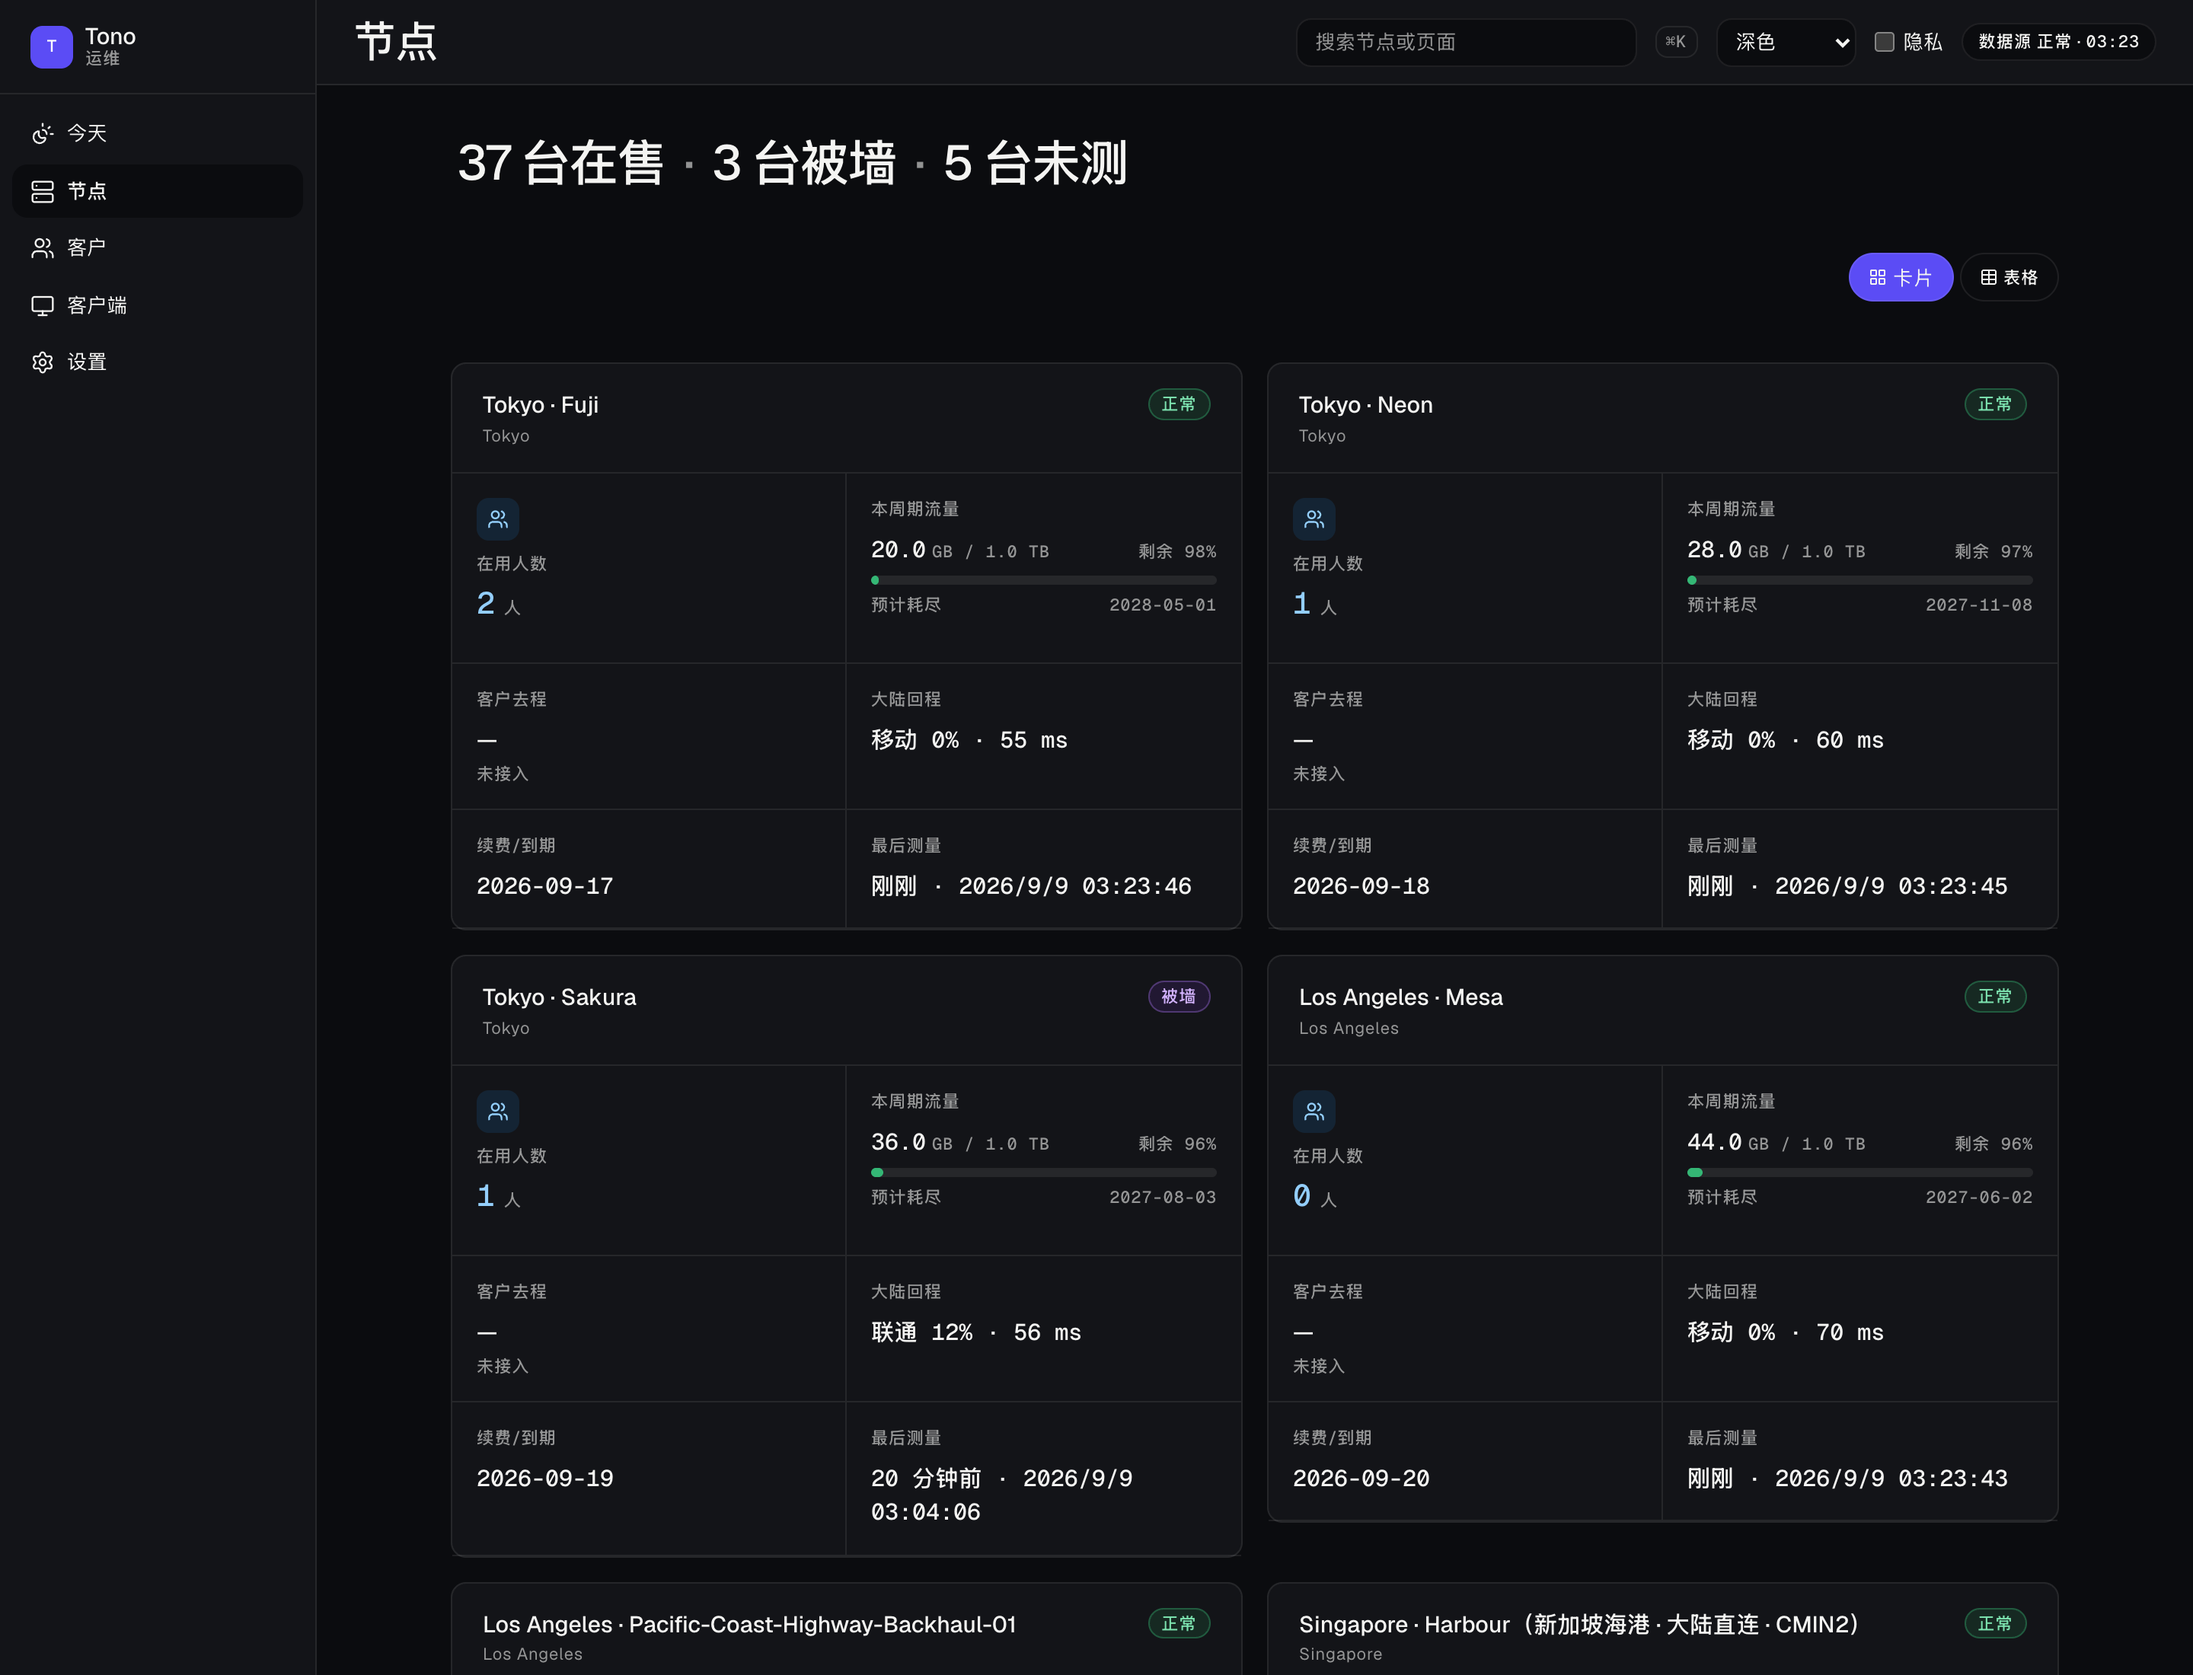
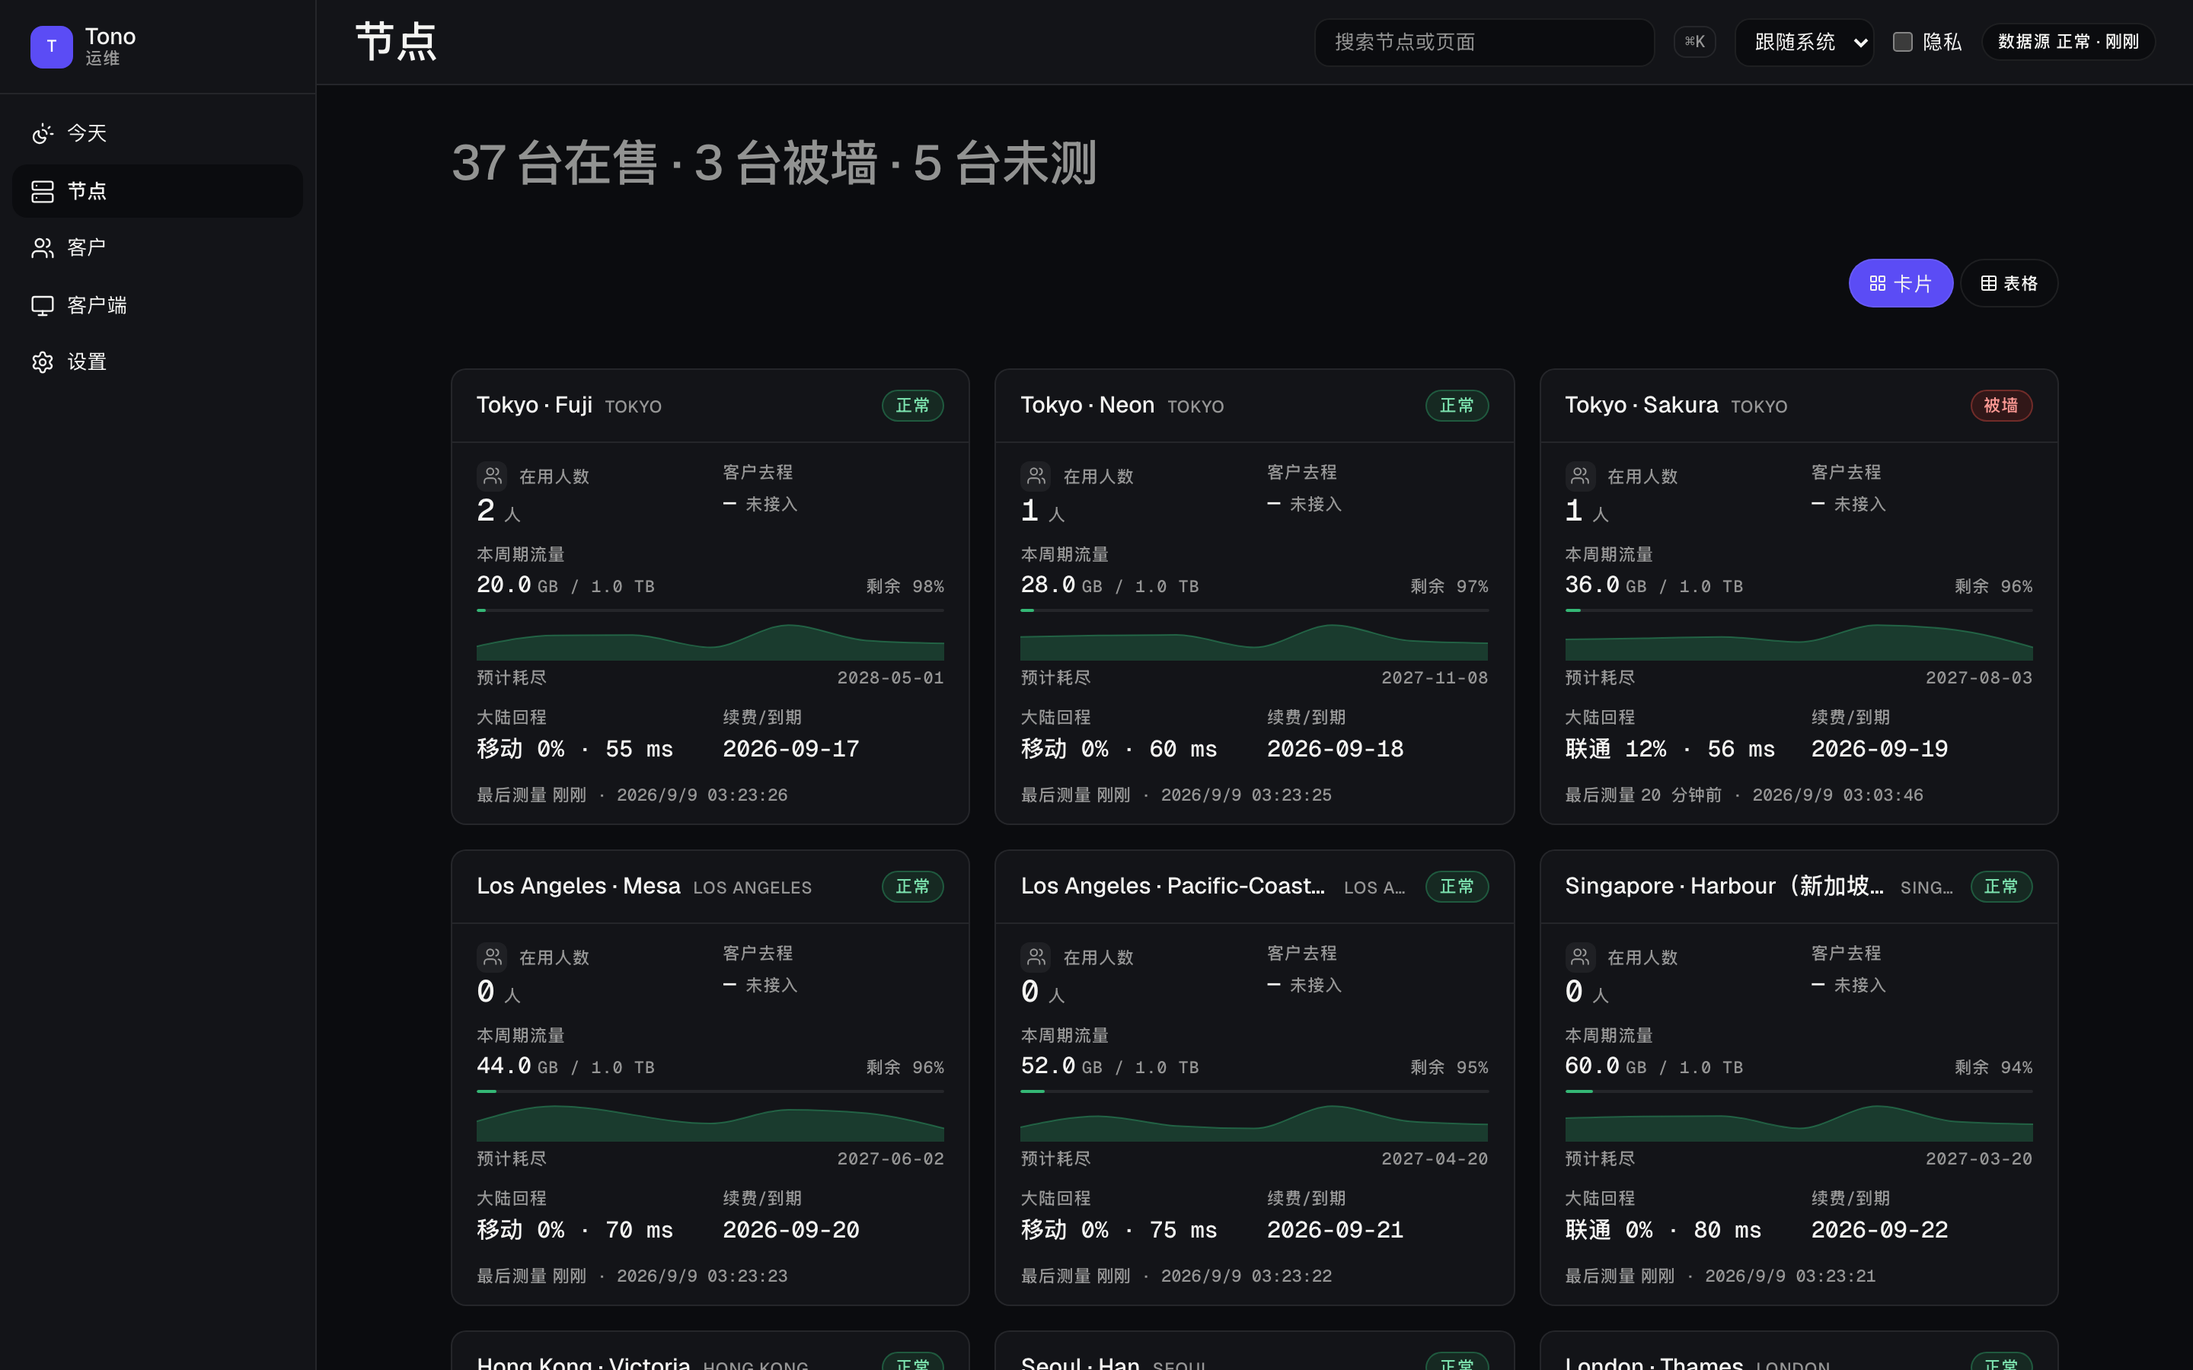
docs(ops-console): package README, and 节点 screenshots taken by the suite
The two screenshots in `docs/screenshots/` are now produced by
`e2e/docs.spec.ts` against the same frozen clock and pinned viewport as the
baselines, so they cannot drift from what the console renders. The README
covers how to run it, the four fixture sets, the screenshot workflow, the
three lint rules and the size budgets.

Claude-Session: https://claude.ai/code/session_01MxNERtbNADnXgvBi3tgsbA

diff --git a/services/ops-console/e2e/docs.spec.ts b/services/ops-console/e2e/docs.spec.ts
@@ -1,0 +1,13 @@
+import { expect, test } from '@playwright/test';
+import { open } from './ops';
+
+/**
+ * Not a baseline — this writes the two screenshots the package README and the
+ * plan point at, so `docs/screenshots/` cannot drift from what the console
+ * actually renders. Run with `npx playwright test e2e/docs.spec.ts`.
+ */
+test('capture the 节点 page for docs', async ({ page }, testInfo) => {
+  await open(page, '/nodes');
+  await expect(page.locator('.node-card').first()).toBeVisible();
+  await page.screenshot({ path: `docs/screenshots/nodes-${testInfo.project.name}.png` });
+});

diff --git a/services/ops-console/src/pages/Nodes.tsx b/services/ops-console/src/pages/Nodes.tsx
@@ -50,7 +50,7 @@ export default function NodesPage({ fleet, selected }: { fleet: FleetState; sele
   return (
     <div className="page-wrap">
       {/* R2 reaches the headline too: a fleet that failed to load has no counts,
-          and "0 台在售" would be a measurement the console never took. */}
+          and a zero count would be a measurement the console never took. */}
       {fleet.status === 'ready' ? (
         <p className="text-verdict">
           {NODE_FILTERS.map((id, index) => (

diff --git a/services/ops-console/README.md b/services/ops-console/README.md
@@ -1,0 +1,68 @@
+# Tono 运维控制台（`/ops2/`）
+
+Vite + React 19 + Tailwind v4 + shadcn/ui。构建产物写进 `../control-plane/public/ops2`，由 admin Worker 提供。
+
+## 跑起来
+
+```bash
+npm install
+npm run dev:fixtures   # 用夹具数据起本地服务，http://localhost:5174/ops2/
+npm run dev            # 打真实 /api/v1/ops/*，需要已登录的 Cloudflare Access 会话
+```
+
+## 夹具
+
+`fixtures/*.json` 由 `node scripts/generate-fixtures.mjs` 生成，时间戳按 `clock` 字段整体平移到"现在"。
+`dev:fixtures` 下用 `?fixtures=` 选数据集，页面会把这个参数转给夹具中间件：
+
+| 参数 | 看到什么 |
+|---|---|
+| 无 | 42 台节点，常规状态 |
+| `?fixtures=dense` | 50 台，超长中文名，压版式 |
+| `?fixtures=empty` | 一台都没有 |
+| `?fixtures=error` | 接口返回 500 |
+
+`VITE_FAKE_NOW`（秒、毫秒或 ISO 串）会把 `src/lib/clock.ts` 的时钟冻住，服务端和页面同时生效——所有相对时间都从这里取，截图基线才稳得住。
+
+## 截图
+
+```bash
+npm run test:e2e           # 比对基线
+npm run test:e2e:update    # 重新拍基线
+```
+
+只跑 chromium，明/暗两套，1440×900 @2x，时区 `Asia/Shanghai`，关动效，像素差容忍 0.2%。
+基线在 `e2e/__screenshots__/{light,dark}/`。改了版式就要连基线一起提交。
+`docs/screenshots/nodes-{light,dark}.png` 是给人看的节点页快照。
+
+## 三条 lint
+
+`tools/eslint-rules/`，每条都有 `test/lint-rules.test.ts` 里的夹具证明它会响。
+
+| 规则 | 管什么 |
+|---|---|
+| `no-implementation-note-copy` | 中文只能写在 `src/copy/copy.ts`（测试文件除外）；copy.ts 里不许出现 桶 / 差分 / payload / revision / schema / DTO / TODO / placeholder / undefined / NaN |
+| `no-number-without-freshness` | `src/pages/`、`src/app/` 里不许 `.toFixed(`、`.toLocaleString(` 和裸数字模板插值；格式化只在 `src/components/ops/` 和 `src/lib/display.ts` 做 |
+| `no-severity-literal` | 状态色令牌、十六进制色、`hsl(` 只能出现在 `src/styles/` 和 `StatusWord.tsx` / `QuotaGauge.tsx`；`tone-*` 类名和 `--tone-*` 变量不受限 |
+
+## 体积预算
+
+`npm run build` 跑完 `vite build` 会接着跑 `scripts/check-budgets.mjs`，超了就让构建失败：
+
+- 首屏 JS ≤ 400 KB gzip（入口 chunk + HTML 预加载的部分）
+- 全部 JS ≤ 600 KB gzip
+- `src/**` 单文件 ≤ 400 行
+
+页面按路由用 `React.lazy` 拆包，Recharts 和 Motion 都在 节点 那个 chunk 里，不会拖累别的页。
+
+## 硬规则
+
+- 缺数据永远是 `—` 加来源词，不是 `0`，也不是绿色（`components/ops/Value.tsx`）。
+- 一个数字只有一个定义：计数和列表调用 `lib/selectors.ts` 同一个函数，`selectors.test.ts` 断言两者相等。
+- 颜色只出现在状态词、额度条和主动作上。
+
+## 验收
+
+```bash
+npm run typecheck && npm run lint && npm test && npm run build && npx playwright test
+```
